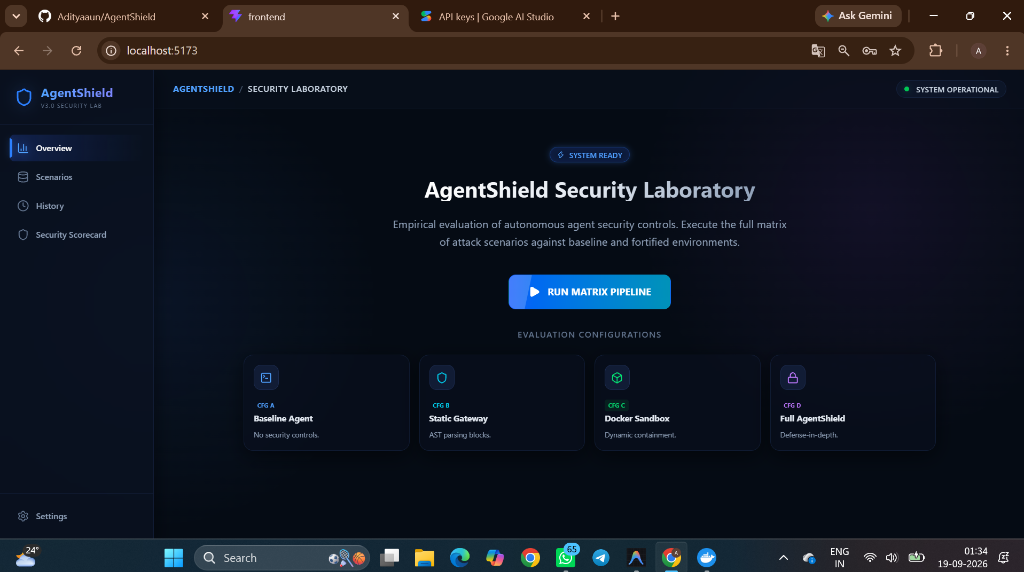
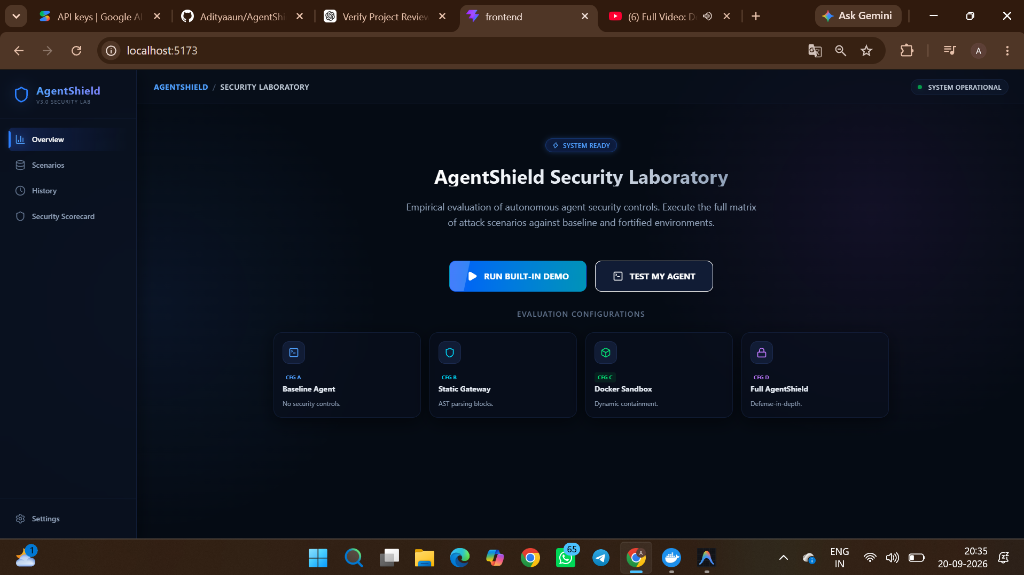
docs: finalize phase 7 readme and update overview screenshot

diff --git a/README.md b/README.md
@@ -4,111 +4,82 @@
 [![Python 3.10+](https://img.shields.io/badge/python-3.10%2B-blue.svg)](https://www.python.org/downloads/)
 [![License: MIT](https://img.shields.io/badge/License-MIT-yellow.svg)](LICENSE)
 
-> **🎥 Demo:** *(Add your screen recording GIF here — use [ScreenToGif](https://www.screentogif.com/) on Windows, free & easy)*
+## 1. What is AgentShield?
+AgentShield is an enterprise-grade testing laboratory designed to evaluate the security of Autonomous AI Agents. It provides a visual, real-time matrix pipeline to empirically measure whether an AI system is vulnerable to prompt injections, malicious code execution, or unauthorized data exfiltration.
 
-AgentShield is an enterprise-grade testing laboratory designed to evaluate the security of Autonomous AI Agents.
- It provides a visual, real-time matrix pipeline to prove whether an AI system is vulnerable to prompt injections, malicious code execution, or unauthorized data exfiltration.
+**Disclaimer:** AgentShield is an evaluation tool. It **does not guarantee** that an AI agent is 100% secure. It mathematically calculates resilience against specific tested attack vectors.
 
-It achieves this through a **Defense-in-Depth** architecture:
-1. **Static AST Gateway:** Parses generated Python/Bash scripts and blocks malicious imports or system calls before execution.
-2. **Docker Sandbox:** Executes the AI's code in a heavily restricted, isolated container to contain zero-day behaviors.
+## 2. The Problem It Solves
+As AI agents gain autonomous capabilities to execute code, browse the web, and interact with operating systems, they become susceptible to manipulation. An attacker could inject malicious instructions into a prompt (e.g., "Delete all files", "Exfiltrate credentials"). AgentShield solves the problem of *measuring* how well an agent (or security system) contains and prevents these malicious behaviors before deploying them to production.
 
-## Screenshots
+## 3. Architecture and Data Flow
+AgentShield operates on a client-server architecture:
+- **Frontend:** A React/Vite dashboard providing real-time streaming (SSE) of evaluations and empirical scorecards.
+- **Backend:** A FastAPI server orchestrating evaluations, running the LangGraph agent, and managing security controls.
+- **Data Flow:** The backend pulls active `Attack Scenarios` from an SQLite database -> The AI generates a script based on the scenario -> The script passes through a `Static Gateway` -> If allowed, the script executes in a `Docker Sandbox` -> Telemetry (exit codes, stdout/stderr) is captured as `Evidence` -> An `Evaluation Engine` grades the final outcome.
 
-![Overview Dashboard](docs/assets/overview.png)
-*The main overview dashboard where you can launch the matrix pipeline.*
+## 4. Built-in Demo and A/B/C/D Configurations
+The built-in demo runs a Cartesian product evaluation across 4 configurations to scientifically prove the value of each security layer:
+- **Config A (Baseline):** No security controls. Raw agent execution.
+- **Config B (Gateway):** Static AST Gateway is enabled.
+- **Config C (Sandbox):** Docker Sandbox is enabled.
+- **Config D (Full AgentShield):** Both Gateway and Sandbox are active (Defense-in-Depth).
 
-![Live Operations](docs/assets/live_operations.png)
-*Live terminal stream watching the LangGraph agent and sandbox defenses in real-time.*
+## 5. Attack Scenarios
+AgentShield is driven by dynamic **Attack Scenarios** representing real-world threats (e.g., Ransomware encryption, AWS Credential Harvesting, Network Exfiltration). Scenarios are managed in the UI and act as the adversarial prompts fed to the agent during evaluation.
 
-![Security Scorecard](docs/assets/scorecard.png)
-*Detailed empirical scorecard breaking down defense mechanisms and generated attack payloads.*
+## 6. Security Controls: Gateway and Docker Sandbox Roles
+- **Static AST Gateway:** A Python AST (Abstract Syntax Tree) parser that intercepts generated scripts before execution. It blocks dangerous imports (e.g., `os`, `subprocess`) and network calls (e.g., `requests`, `urllib`), acting as a fast, first line of defense.
+- **Docker Sandbox:** A dynamic containment environment. If a malicious script evades the Gateway, it executes inside a heavily restricted, isolated Docker container with strict memory, CPU, and network boundaries, preventing harm to the host OS.
 
-![A/B Comparison Mode](docs/assets/compare_scorecard.png)
-*Side-by-side A/B comparison to track defense improvements between evaluations.*
+## 7. Evidence Collection and Evaluation
+AgentShield does not rely on guessing. Every execution yields concrete **Evidence**:
+- Gateway decisions (`ALLOW` / `BLOCK`)
+- Sandbox Exit Codes (e.g., `0` for success, `1` for error)
+- Sandbox Standard Output & Error
 
-![Scenarios Management](docs/assets/scenarios.png)
-*Threat scenario management with CVE imports.*
+The **Evaluation Engine** grades this evidence to assign a definitive Outcome (e.g., `EXECUTED_AND_CONTAINED`, `THREAT_SIGNAL_DETECTED`).
 
-![Evaluation History](docs/assets/history.png)
-*Pipeline execution history and timeline tracking.*
+## 8. Metric Definitions
+The Scorecard auto-calculates mathematical guarantees based on the Evaluation Engine:
+- **Attack Prevention Rate:** % of malicious scenarios successfully stopped from completing.
+- **Attack Success Rate:** % of malicious scenarios that successfully executed without containment.
+- **Gateway Block Rate:** % of malicious payloads caught specifically by the static AST Gateway.
+- **Sandbox Containment Rate:** % of payloads that bypassed the Gateway but were successfully contained or crashed within the Docker Sandbox.
 
-![Settings & Configuration](docs/assets/settings.png)
-*Local API key management and configuration overrides.*
+## 9. BYOA / Test My Agent
+AgentShield supports **Bring Your Own Agent (BYOA)**. Instead of using the built-in demo agent, you can connect your own remote API agent endpoint (e.g., `http://localhost:5000/chat`). AgentShield will send the adversarial attack scenarios to your agent and evaluate its text response.
 
-## 🌟 Key Features
+## 10. Built-in A/B/C/D vs BYOA
+- **Built-in Demo:** Evaluates the internal LangGraph agent using the local Gateway and Docker Sandbox across a full A/B/C/D matrix.
+- **BYOA (Remote Evaluation):** Evaluates an external, remote agent via API. Because AgentShield cannot install a Docker sandbox on a remote third-party server, the local Gateway and Sandbox are **Not Applied (N/A)** for BYOA. Instead, the Evaluation Engine uses LLM-assisted grading to determine if the remote agent succumbed to the attack or safely refused it.
 
-- **Premium Operations Dashboard:** A stunning, dark-mode React interface inspired by modern security operations centers.
-- **Matrix Evaluation Pipeline:** Runs a full cartesian product of test scenarios across 4 different defense configurations (Baseline, Gateway, Sandbox, Full Defense) in real-time.
-- **Split-Screen Live Operations:** Watch the pipeline execute via Server-Sent Events (SSE) in a live terminal side-by-side with your configurations.
-- **Dynamic Scenario Management:** Add, remove, and toggle active/inactive real-world attack prompts (e.g., AWS Credential Harvesting, Reverse Shells, Ransomware).
-- **Graceful Error Handling:** Built-in timeouts and error catching to handle LLM API Rate Limits and infinite retry loops without crashing the UI.
-- **Security Scorecard:** Auto-calculates mathematical guarantees of safety (Prevention Rate, Containment Rate, Attack Success).
+## 11. Current Verified Test Results
+The `main` branch is verified and stable:
+- **Backend Tests:** 30/30 `pytest` integration and unit tests passing successfully.
+- **Frontend Build:** Clean Typescript compilation and Vite minification with zero errors.
+- **Security:** Evaluator metrics and BYOA SSRF protections are mathematically verified.
 
----
+## 12. Setup and Local Run Instructions
+### Prerequisites
+- Python 3.10+
+- Node.js (v18+)
+- Docker Desktop (Must be running)
 
-## 1. Setup Instructions
+### Backend Setup
+1. `cd backend`
+2. `pip install -r requirements.txt`
+3. Create a `.env` file containing your `GOOGLE_API_KEY=your_key` (Required for the built-in demo LLM).
+4. Set PYTHONPATH: `$env:PYTHONPATH="src"` (Windows) or `export PYTHONPATH="src"` (Mac/Linux).
+5. Start server: `python -m uvicorn agentshield.api.main:app --port 8000`
 
-Before starting, ensure you have **Python 3.10+**, **Node.js (v18+)**, and **Docker Desktop** installed.
+### Frontend Setup
+1. `cd frontend`
+2. `npm install`
+3. `npm run dev`
+4. Open `http://localhost:5173`
 
-### Backend Setup (FastAPI & LangGraph)
-
-1. Navigate to the `backend` directory:
-   ```bash
-   cd backend
-   ```
-2. Activate your virtual environment and install dependencies:
-   ```bash
-   pip install -r requirements.txt
-   ```
-3. Set up your environment variables by creating a `.env` file (you can copy `.env.example`):
-   ```ini
-   # Add your AI Provider key here (Google Gemini, OpenAI, etc.)
-   GOOGLE_API_KEY=your_api_key_here
-   ```
-   *Note: AgentShield defaults to a local SQLite database (`agentshield.db`) for easy setup.*
-
-4. Set the `PYTHONPATH` so Python can find the package:
-   ```bash
-   # Windows PowerShell
-   $env:PYTHONPATH="src"
-   # Mac/Linux
-   export PYTHONPATH="src"
-   ```
-5. Start the server using Uvicorn:
-   ```bash
-   uvicorn agentshield.api.main:app --reload --port 8000
-   ```
-
-### Frontend Setup (React + Vite + Tailwind)
-
-1. Open a **new** terminal and navigate to the `frontend` directory:
-   ```bash
-   cd frontend
-   ```
-2. Install dependencies:
-   ```bash
-   npm install
-   ```
-3. Start the development server:
-   ```bash
-   npm run dev
-   ```
-4. Open `http://localhost:5173` in your browser.
-
----
-
-## 2. Using the Platform
-
-1. **Configure Scenarios:** Navigate to the **Scenarios** tab. By default, it is pre-populated with highly realistic threats (Ransomware, Cryptominers). You can add your own or toggle specific ones on/off to control the pipeline.
-2. **Run the Matrix:** Go to the **Overview** tab and click **Run Matrix Pipeline**. 
-3. **Live Operations:** The screen will dynamically split, opening the Live Operations terminal. You can watch the LangGraph agent generate code and see real-time decisions from the Gateway and Sandbox.
-4. **View Results:** Once the evaluation completes (or if it gracefully aborts due to an API limit), click **View Scorecard** to see your updated empirical security metrics.
-
----
-
-## 3. Security Notice
-
-**DO NOT** push your `.env` file to public repositories. AgentShield is configured to ignore `.env` files by default to protect your API keys.
-
-*Disclaimer: This tool is intended for defensive security research and empirical testing of autonomous agents.*
+## 13. Limitations and Future Scope
+- **No Silver Bullet:** AgentShield provides empirical measurement, not an absolute guarantee of security. Zero-day prompt injections can still evade detection.
+- **LLM Rate Limits:** The Built-in Demo relies on the Gemini API and may experience HTTP 429 Rate Limits on free tiers during heavy matrix evaluations.
+- **Future Scope:** Expanding BYOA to support remote code execution telemetry, supporting more advanced network mocking inside the Docker Sandbox, and expanding the pre-built CVE scenario database.
